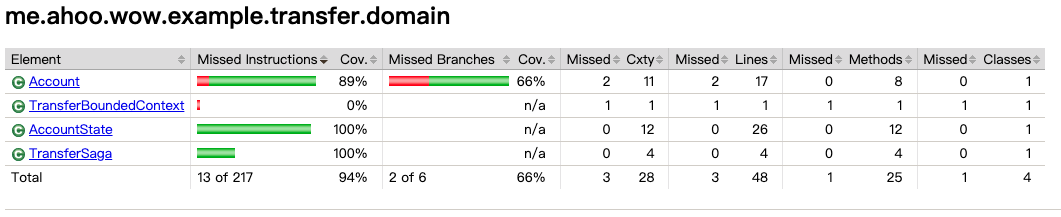
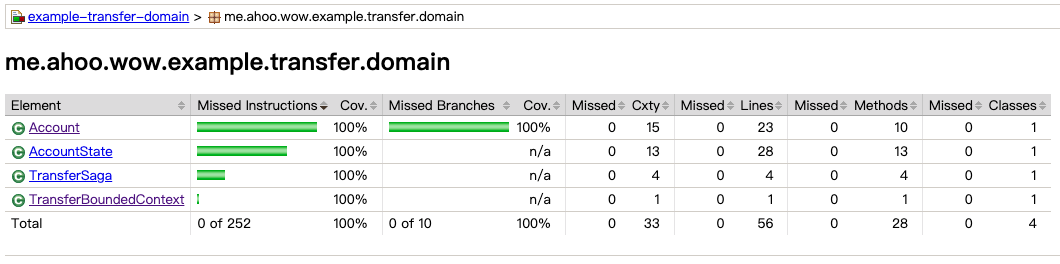
Improve code coverage

diff --git a/example/transfer/example-transfer-domain/src/test/kotlin/me/ahoo/wow/example/transfer/domain/AccountKTest.kt b/example/transfer/example-transfer-domain/src/test/kotlin/me/ahoo/wow/example/transfer/domain/AccountKTest.kt
@@ -63,6 +63,37 @@ internal class AccountKTest {
     }
 
     @Test
+    fun prepareGivenFrozen() {
+        aggregateVerifier<Account, AccountState>()
+            .given(AccountCreated("name", 100), AccountFrozen(""))
+            .`when`(Prepare("name", 100))
+            .expectError<IllegalStateException> {
+                assertThat(it.message, equalTo("账号已冻结无法转账."))
+            }
+            .expectState {
+                assertThat(it.name, equalTo("name"))
+                assertThat(it.balanceAmount, equalTo(100))
+                assertThat(it.isFrozen, equalTo(true))
+            }
+            .verify()
+    }
+
+    @Test
+    fun prepareGivenBalanceInsufficient() {
+        aggregateVerifier<Account, AccountState>()
+            .given(AccountCreated("name", 100))
+            .`when`(Prepare("name", 200))
+            .expectError<IllegalStateException> {
+                assertThat(it.message, equalTo("账号余额不足."))
+            }
+            .expectState {
+                assertThat(it.name, equalTo("name"))
+                assertThat(it.balanceAmount, equalTo(100))
+            }
+            .verify()
+    }
+
+    @Test
     fun entry() {
         val aggregateId = GlobalIdGenerator.generateAsString()
         aggregateVerifier<Account, AccountState>(aggregateId)

diff --git a/example/transfer/example-transfer-domain/src/test/java/me/ahoo/wow/example/transfer/domain/TransferBoundedContextTest.java b/example/transfer/example-transfer-domain/src/test/java/me/ahoo/wow/example/transfer/domain/TransferBoundedContextTest.java
@@ -13,9 +13,16 @@
 
 package me.ahoo.wow.example.transfer.domain;
 
-import me.ahoo.wow.api.annotation.BoundedContext;
-import me.ahoo.wow.example.transfer.TransferService;
+import org.junit.jupiter.api.Test;
 
-@BoundedContext(name = TransferService.SERVICE_NAME)
-public final class TransferBoundedContext {
+import static org.hamcrest.MatcherAssert.assertThat;
+import static org.hamcrest.Matchers.notNullValue;
+
+class TransferBoundedContextTest {
+
+    @Test
+    void ctor() {
+        var boundedContext = new TransferBoundedContext();
+        assertThat(boundedContext, notNullValue());
+    }
 }
